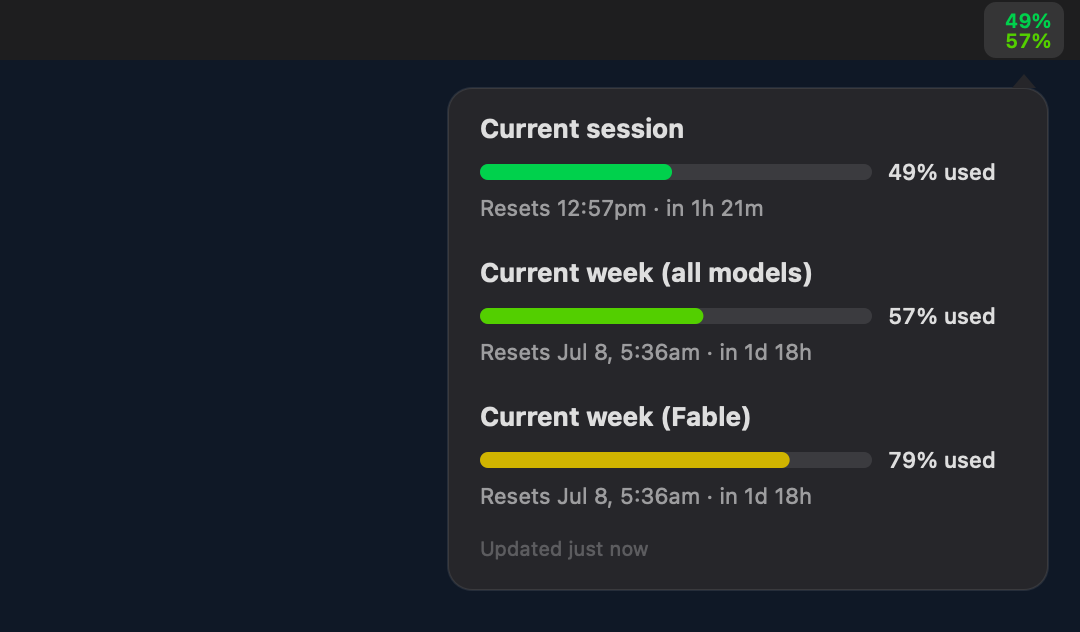
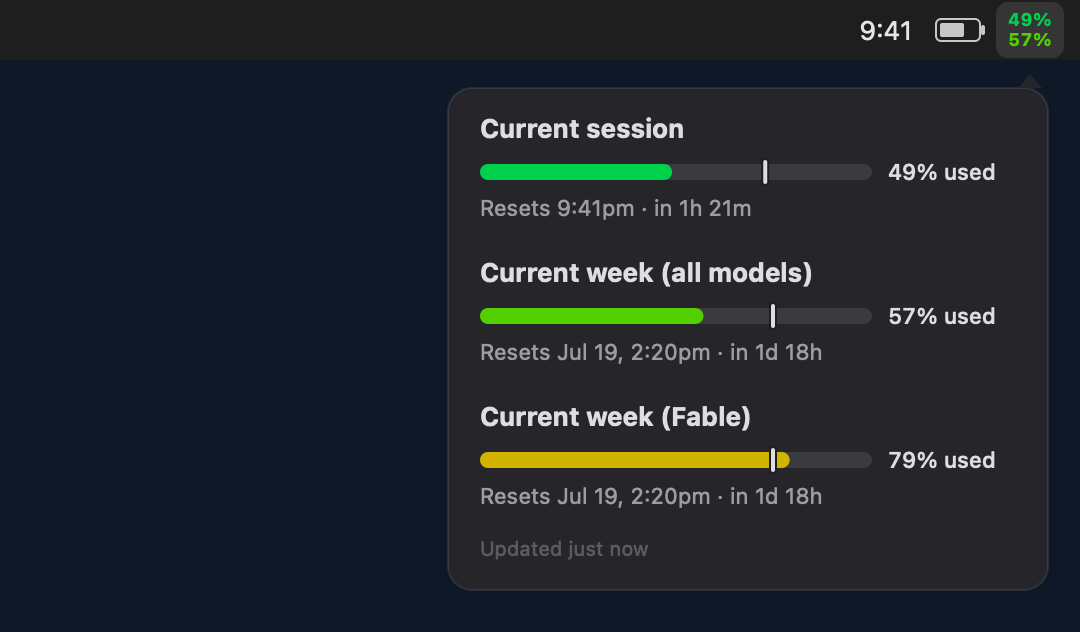
feat: mark elapsed window time on each usage bar
A percentage alone doesn't say whether it's a problem: 57% of the weekly
window is comfortable on day 6 and alarming on day 2. Each bar now carries
a tick at the point the window's clock has reached, so fill-vs-tick reads
as ahead of or behind pace without any arithmetic.

The elapsed position has to be inferred — /usage reports when a window
resets, never when it opened — so the window lengths are hardcoded and
documented as an assumption rather than a reading.

The tick is drawn with a background-colored halo. Without it the marker
disappears wherever its luminance meets the fill's: black on the dark
green fill in light mode, white on the bright fills in dark mode.

Also drop the reset line for windows with no reset time, instead of
printing "Reset time unknown" — an unused window simply hasn't started
its clock, and "unknown" read as a failed fetch.

diff --git a/UsagePanelView.swift b/UsagePanelView.swift
@@ -16,6 +16,8 @@ final class UsagePanelView: NSView {
     private let barHeight: CGFloat = 8
     private let pctColWidth: CGFloat = 64      // "100% used"
     private let barGap: CGFloat = 8            // bar -> pct label
+    private let markerWidth: CGFloat = 2
+    private let markerOverhang: CGFloat = 2    // marker protrudes past the bar, top and bottom
 
     // Row metrics
     private let titleH: CGFloat = 18
@@ -59,8 +61,9 @@ final class UsagePanelView: NSView {
             return padTop + 20 + padBottom
         }
         var h = padTop
-        for i in 0..<limits.count {
-            h += titleH + titleToBar + barHeight + barToReset + resetH
+        for (i, limit) in limits.enumerated() {
+            h += titleH + titleToBar + barHeight
+            if resetLine(for: limit) != nil { h += barToReset + resetH }
             if i != limits.count - 1 { h += rowGap }
         }
         h += footerGap + footerH + padBottom
@@ -93,16 +96,24 @@ final class UsagePanelView: NSView {
                 fillRounded(fill, radius: barHeight / 2, color: fillColor(for: limit))
             }
 
+            // Where the fill would sit if the window were being spent evenly, so
+            // that fill-vs-marker reads at a glance as ahead of / behind pace.
+            if let elapsed = limit.elapsedFraction() {
+                drawTimeMarker(fraction: CGFloat(elapsed), in: track)
+            }
+
             // "NN% used" beside the bar, vertically centred with it
             drawText("\(limit.percent)% used",
                      at: NSPoint(x: padX + barMaxW + barGap, y: y - 3),
                      font: pctFont, color: .labelColor)
-            y += barHeight + barToReset
+            y += barHeight
 
-            // Reset line
-            let resetStr = limit.resetsAt.map(UsageFormat.reset) ?? "Reset time unknown"
-            drawText(resetStr, at: NSPoint(x: padX, y: y), font: resetFont, color: .secondaryLabelColor)
-            y += resetH
+            // Reset line, omitted entirely when there's no reset time to show.
+            if let resetStr = resetLine(for: limit) {
+                y += barToReset
+                drawText(resetStr, at: NSPoint(x: padX, y: y), font: resetFont, color: .secondaryLabelColor)
+                y += resetH
+            }
 
             if i != limits.count - 1 { y += rowGap }
         }
@@ -110,6 +121,14 @@ final class UsagePanelView: NSView {
         // Footer
         y += footerGap
         drawText(footerString(), at: NSPoint(x: padX, y: y), font: footerFont, color: .tertiaryLabelColor)
+    }
+
+    /// The reset line for a limit, or nil when there is nothing truthful to say.
+    /// A window that hasn't been drawn on yet has no reset time — the clock only
+    /// starts on first use — so the row drops the line rather than claiming the
+    /// time is "unknown", which reads as a failure to fetch it.
+    private func resetLine(for limit: UsageLimit) -> String? {
+        limit.resetsAt.map(UsageFormat.reset)
     }
 
     private func footerString() -> String {
@@ -142,6 +161,21 @@ final class UsagePanelView: NSView {
             .foregroundColor: color,
             .paragraphStyle: paragraphStyle
         ]).draw(in: rect)
+    }
+
+    /// Vertical pace marker at `fraction` along the bar.
+    private func drawTimeMarker(fraction: CGFloat, in track: NSRect) {
+        // Inset by half a marker so 0% and 100% still land inside the bar.
+        let centerX = track.minX + markerWidth / 2 + (track.width - markerWidth) * fraction
+        let rect = NSRect(x: centerX - markerWidth / 2,
+                          y: track.minY - markerOverhang,
+                          width: markerWidth,
+                          height: track.height + markerOverhang * 2)
+        // The marker crosses the track and the fill, and either one can be close
+        // in luminance to it — dark fills in light mode, bright fills in dark.
+        // A background-colored halo keeps it readable over whatever it lands on.
+        fillRounded(rect.insetBy(dx: -1, dy: -1), radius: 2, color: .textBackgroundColor)
+        fillRounded(rect, radius: markerWidth / 2, color: .labelColor)
     }
 
     private func fillRounded(_ rect: NSRect, radius: CGFloat, color: NSColor) {

diff --git a/UsageClient.swift b/UsageClient.swift
@@ -12,6 +12,30 @@ struct UsageLimit {
     let resetsAt: Date?
 }
 
+extension UsageLimit {
+    /// How long this limit's window runs for.
+    ///
+    /// `/usage` reports only when a window resets, never when it opened, so the
+    /// start has to be inferred as `resetsAt - windowLength`. These lengths are
+    /// therefore an assumption about the plan, not a reading from the CLI: if a
+    /// window's duration ever changes, the elapsed marker drifts silently.
+    var windowLength: TimeInterval? {
+        switch kind {
+        case "session":                    return 5 * 3600
+        case "weekly_all", "weekly_scoped": return 7 * 24 * 3600
+        default:                           return nil
+        }
+    }
+
+    /// Fraction of the window already elapsed (0...1), or nil when it can't be
+    /// derived. Clamped, since a stale `resetsAt` can sit outside the window.
+    func elapsedFraction(now: Date = Date()) -> Double? {
+        guard let resetsAt, let length = windowLength, length > 0 else { return nil }
+        let remaining = resetsAt.timeIntervalSince(now)
+        return min(max(1 - remaining / length, 0), 1)
+    }
+}
+
 /// A full snapshot of usage at a point in time.
 struct UsageSnapshot {
     let limits: [UsageLimit]        // in display order (session, weekly_all, weekly_scoped)

diff --git a/README.vi.md b/README.vi.md
@@ -12,6 +12,12 @@ ngay trong tầm mắt — cùng những con số như lệnh `claude /usage`, l
   tiến trình và một dòng đặt lại (reset) hiển thị giờ địa phương cùng thời gian
   còn lại đến khi đặt lại.
 
+Mỗi thanh tiến trình có thêm một **vạch nhịp độ** — một vạch nhỏ đánh dấu vị trí
+mà đồng hồ của khung thời gian đã chạy tới. Phần tô nằm sau vạch nghĩa là bạn
+đang dùng chậm hơn so với thời gian trôi qua; vượt qua vạch nghĩa là bạn có khả
+năng dùng hết trước khi khung được đặt lại. (Khung chưa được dùng đến thì không
+có thời gian đặt lại, nên không hiện vạch lẫn dòng đặt lại.)
+
 ![Ảnh chụp màn hình Claude Usage Stats](screenshot.png)
 
 Hai tỷ lệ phần trăm được **tự động tô màu theo khoảng mức sử dụng**, dùng các màu

diff --git a/README.md b/README.md
@@ -11,6 +11,12 @@ same numbers as the `claude /usage` command, always visible.
   and your active model's weekly limit), each with a progress bar and a reset
   line showing the local time and how long until reset.
 
+Each progress bar carries a **pace marker** — a small tick at the point the
+window's clock has reached. Fill behind the tick means you're spending slower
+than the window elapses; fill past it means you're on track to run out early.
+(A window that hasn't been used yet has no reset time, so it shows neither a
+marker nor a reset line.)
+
 ![Claude Usage Stats screenshot](screenshot.png)
 
 The two percentages are **auto-colored by usage range**, using colors verified

diff --git a/README.zh.md b/README.zh.md
@@ -11,6 +11,10 @@
   所用模型的每周上限），每项都带有进度条和一行重置信息，显示本地时间以及距离重置
   还有多久。
 
+每条进度条上都有一个**节奏标记** —— 一道小刻度，标出该时间窗口已经走到的位置。
+填充落在标记之前，说明你的消耗慢于时间流逝；越过标记，则说明照此下去会在重置前
+用完。（尚未使用过的窗口没有重置时间，因此既不显示标记，也不显示重置行。）
+
 ![Claude Usage Stats 截图](screenshot.png)
 
 这两个百分比会**根据使用率区间自动着色**，所用颜色经过验证，在浅色和深色菜单栏下
